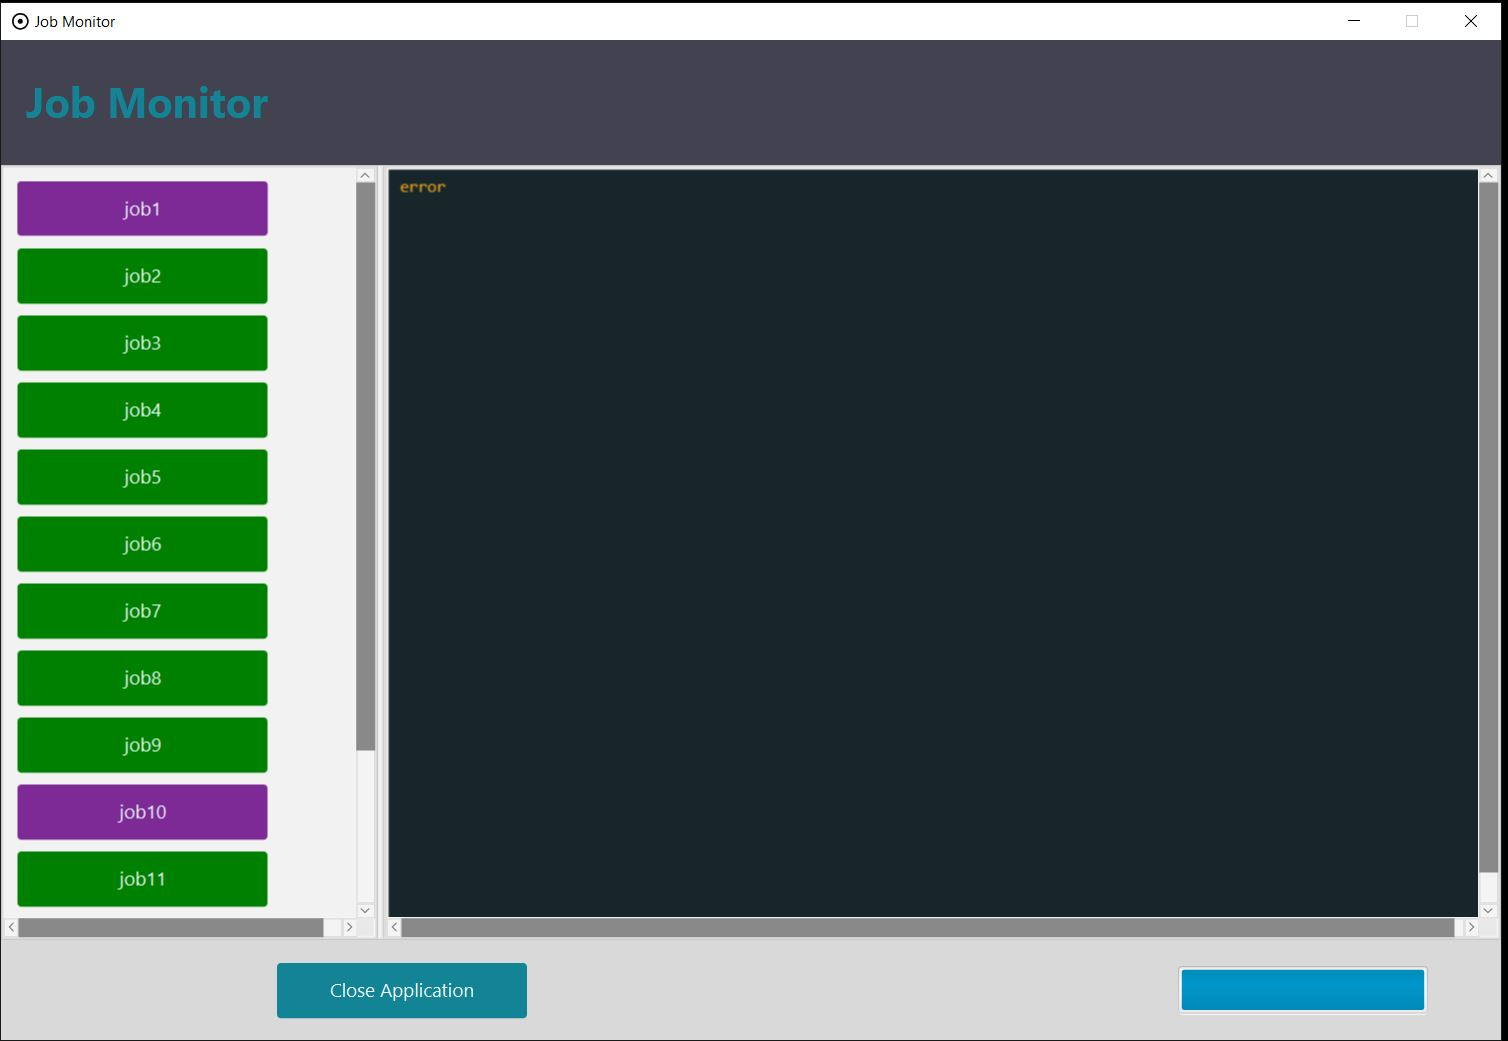
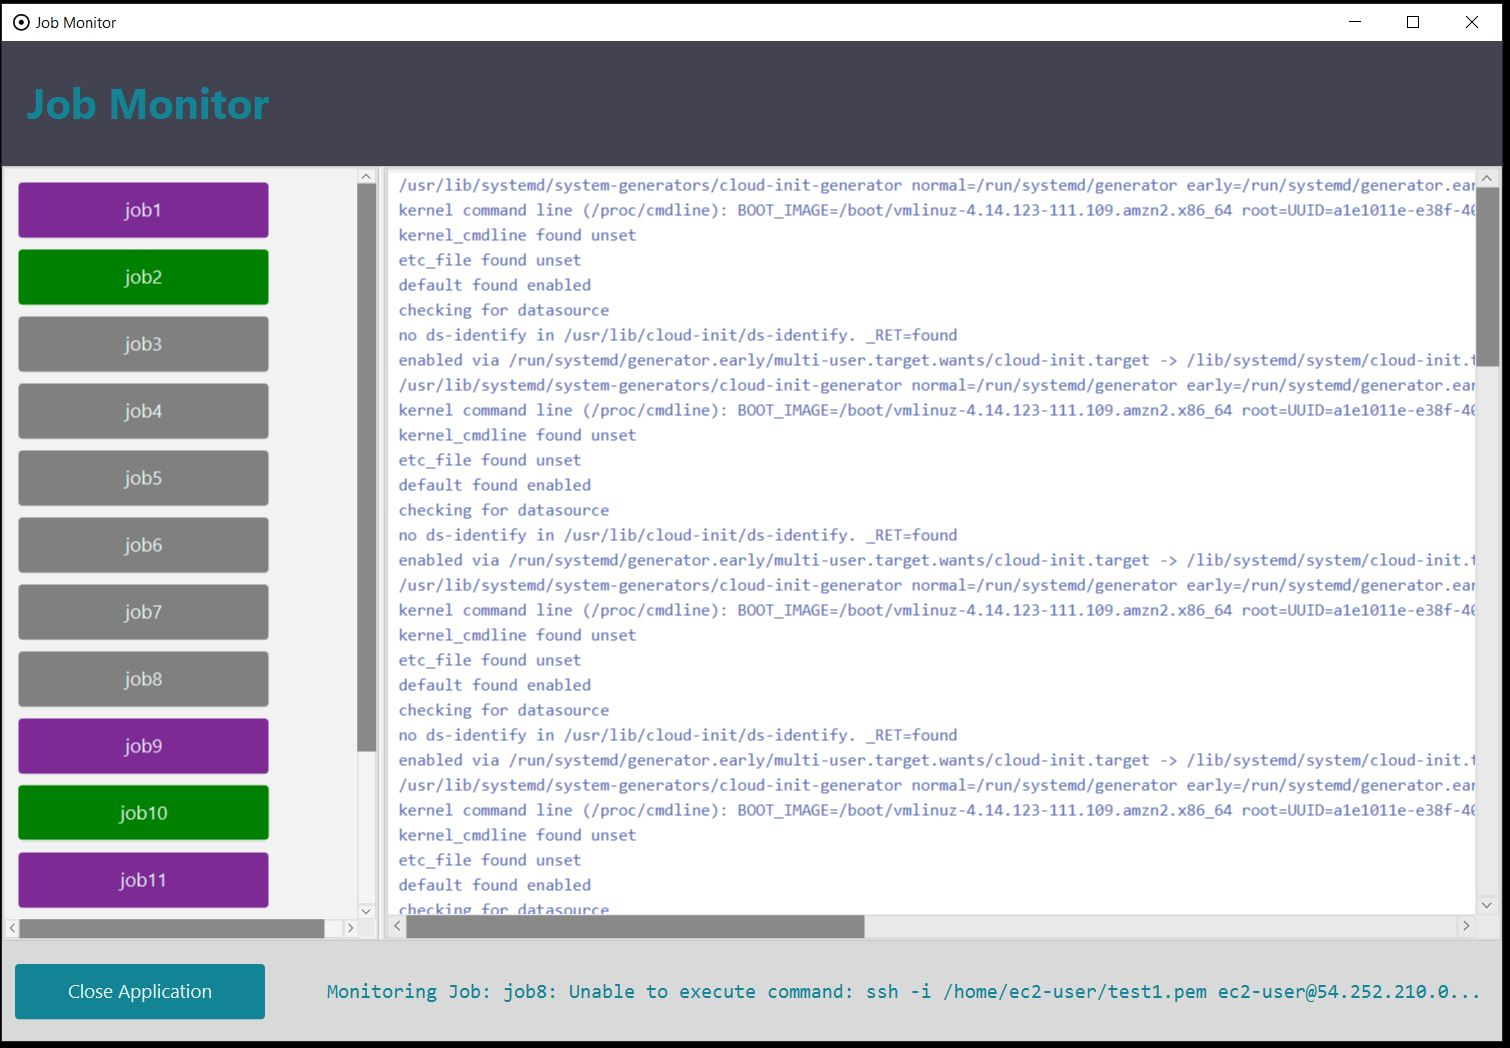
Added properties logic; Log window is now resizeable

diff --git a/src/main/resources/css/theme.css b/src/main/resources/css/theme.css
@@ -108,10 +108,11 @@
     -fx-font-size: 10pt;
     -fx-highlight-fill: WHITE;
     -fx-highlight-text-fill: -fx-pure-black;
-    -fx-control-inner-background: -fx-light-black;
+    -fx-control-inner-background: WHITE;
     -fx-text-fill: -fx-blue;
 }
 
+/*
 .text-area {
     text-area-background: -fx-black;
 }
@@ -136,6 +137,7 @@
 .text-area .scroll-pane .content{
     -fx-background-color: transparent;
 }
+*/
 
 /* Scroll bar changes */
 /* Source - https://blog.ngopal.com.np/2012/07/11/customize-scrollbar-via-css/ */
